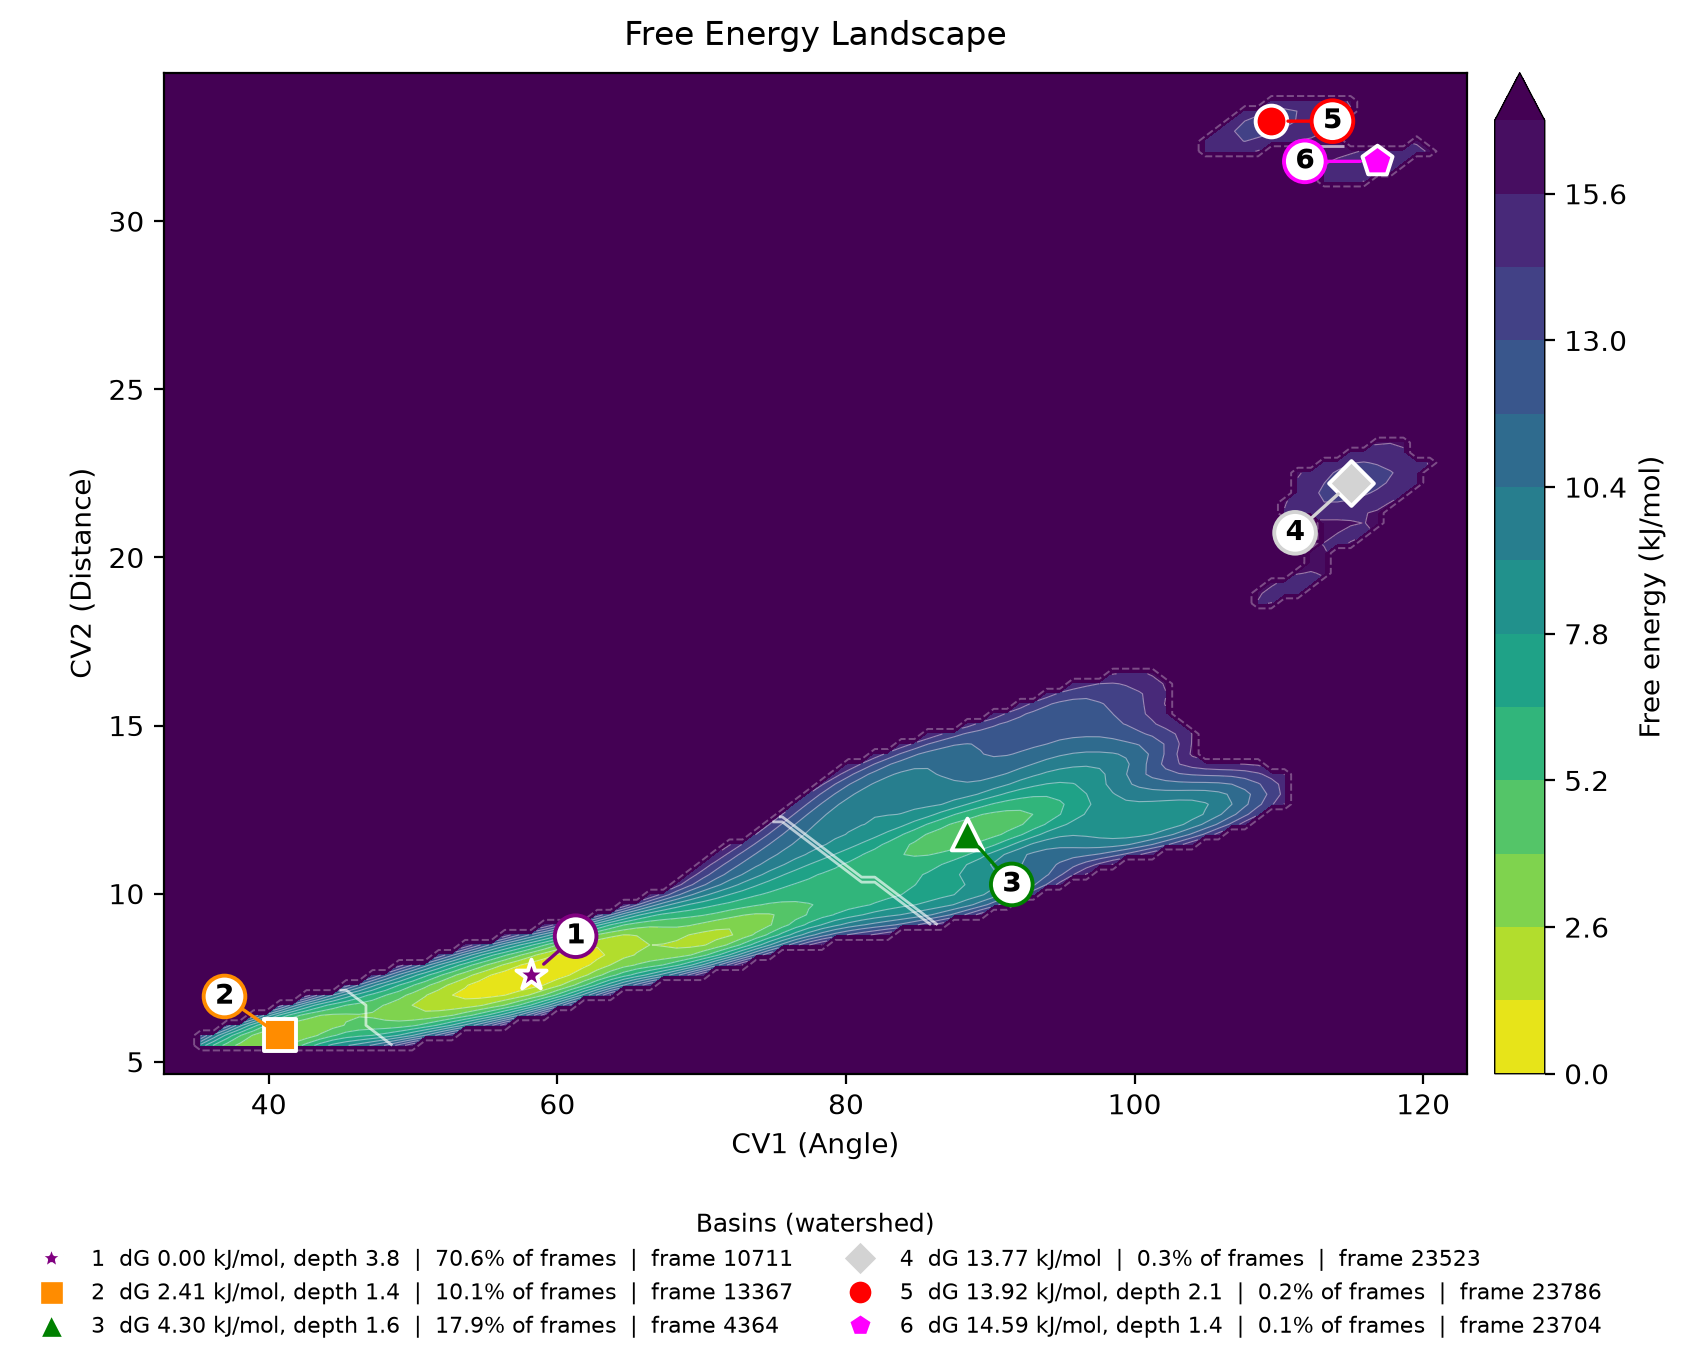
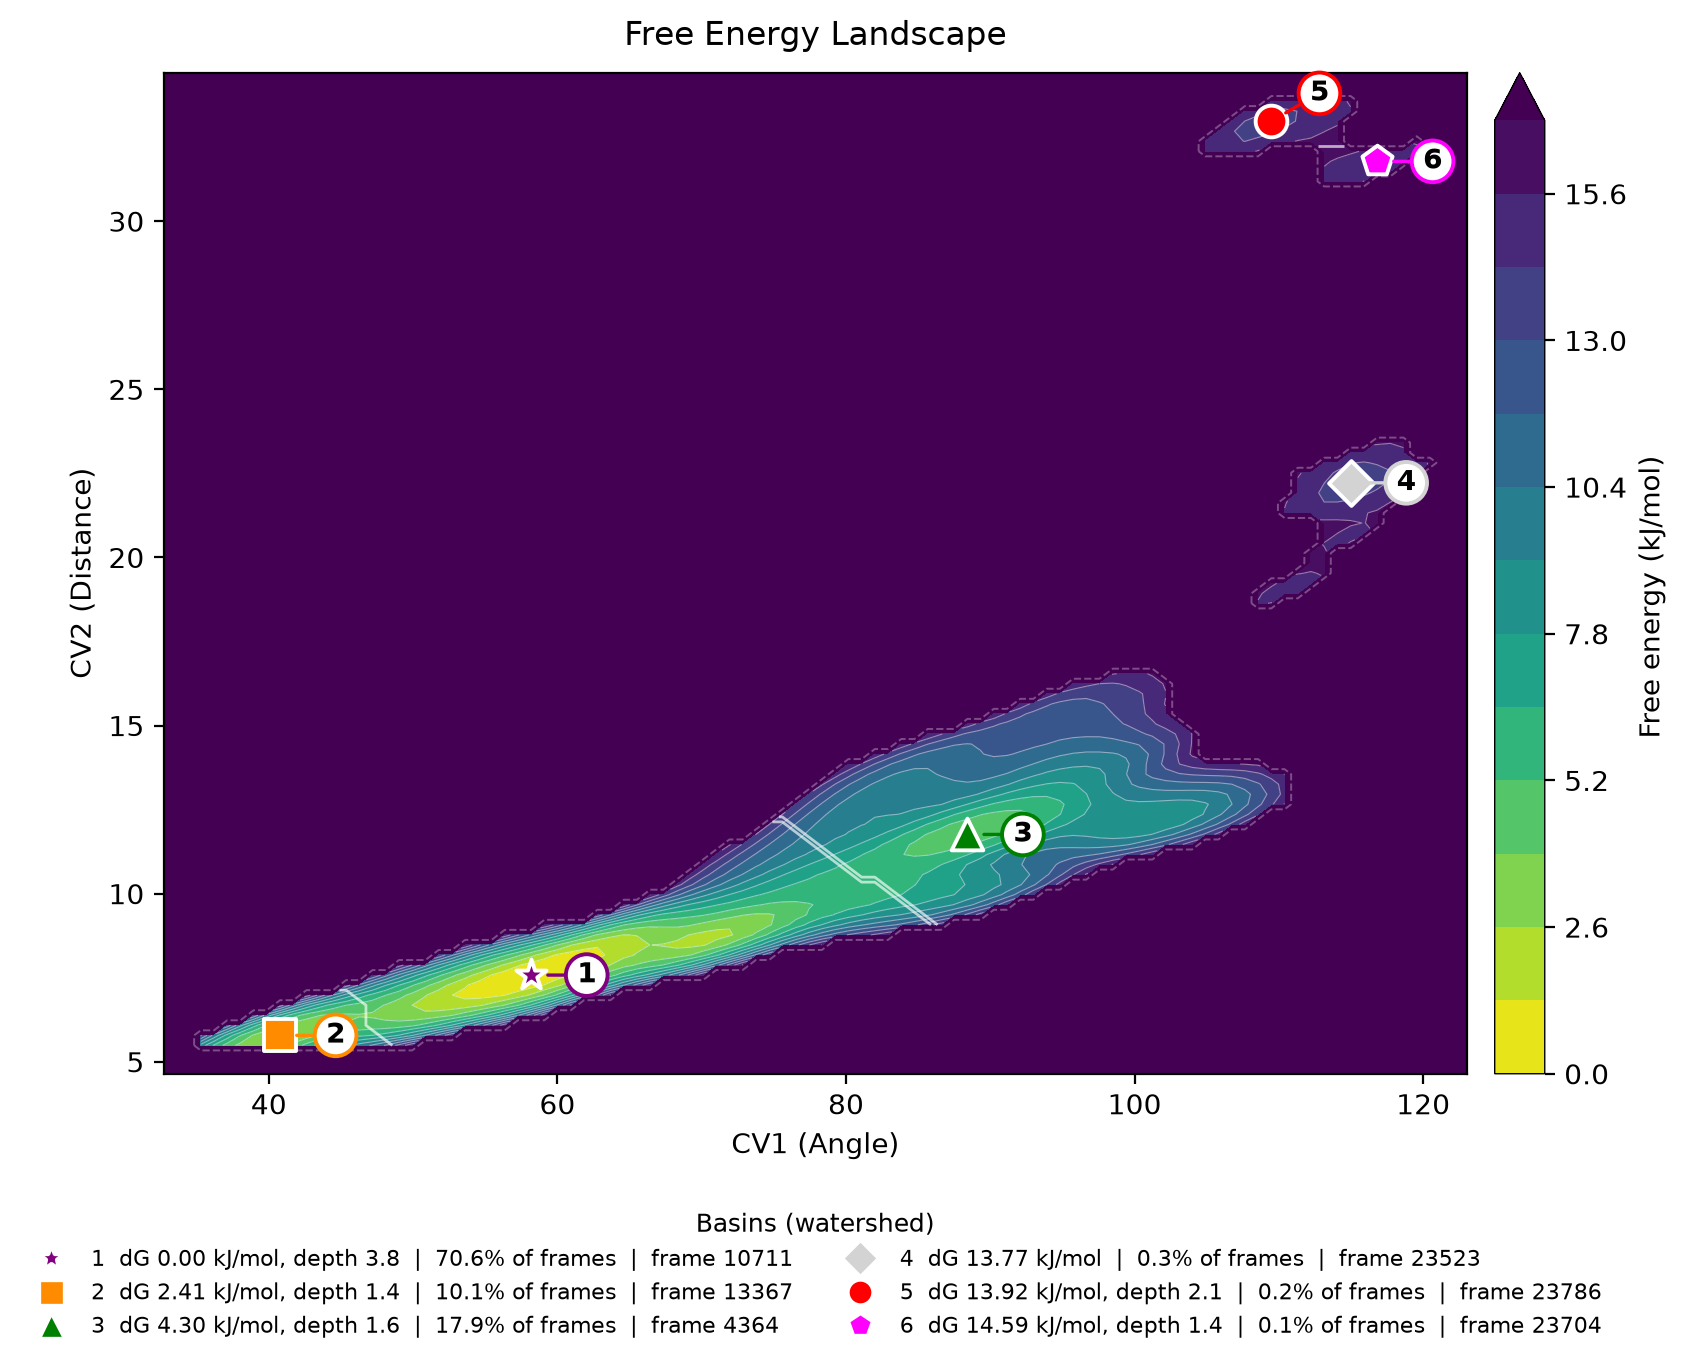
fix: solve basin label placement instead of cycling fixed offsets
Labels were offset from their marker by a position picked from a six-entry
list indexed by basin number. Two basins landing near each other on screen
therefore got two nearby labels, and on the bundled trajectory basins 5 and 6
overlapped.

Each label is now tried in twelve directions at four distances from its
marker, and keeps the first position that clears every label already placed
and every other marker by a set margin; if none does, it takes the position
that maximises the smallest gap. The search runs in screen pixels rather than
data units, because two basins can be far apart in CV space and touching in
the figure.

Four tests cover it, including six minima placed almost on top of each other.

diff --git a/free_energy_landscape/freeEnergyLandscape.py b/free_energy_landscape/freeEnergyLandscape.py
@@ -752,20 +752,63 @@ class FreeEnergyLandscape:
         mappable.set_array([])
         return surf, mappable, ceiling
 
-    def _annotate_basins(self, ax, basins, three_d=False):
-        """Marca o minimo de cada bacia com o seu numero e devolve os itens da legenda.
+    @staticmethod
+    def _label_offsets(ax, anchors, radii=(20, 32, 46, 62), n_dirs=12, min_sep=26):
+        """Escolhe onde por cada rotulo sem que dois se sobreponham.
 
-        O rotulo sai deslocado do marcador, com linha de chamada, para que bacias vizinhas
-        nao sobreponham os numeros.
+        Deslocamentos fixos por indice falham assim que duas bacias caem perto uma da
+        outra: os rotulos se empilham. Aqui cada rotulo e testado em varias direcoes e
+        distancias do seu marcador, e fica na primeira posicao que respeita `min_sep`
+        pontos de folga em relacao aos rotulos ja colocados e a todos os marcadores. Se
+        nenhuma respeitar, fica na que maximiza a menor distancia.
+
+        As contas sao em pixels de tela, porque proximidade visual e o que importa: duas
+        bacias podem estar longe em unidades de CV e coladas na figura.
+        """
+        scale = ax.figure.dpi / 72.0            # pontos -> pixels
+        anchors_px = np.array([ax.transData.transform(a) for a in anchors], dtype=float)
+
+        placed_px = []
+        offsets = []
+        for i, anchor_px in enumerate(anchors_px):
+            others = np.delete(anchors_px, i, axis=0)
+            best_off, best_score = np.array([radii[0], radii[0]]), -np.inf
+
+            for radius in radii:
+                for k in range(n_dirs):
+                    angle = 2 * np.pi * k / n_dirs
+                    off = np.array([np.cos(angle), np.sin(angle)]) * radius
+                    pos = anchor_px + off * scale
+
+                    gaps = []
+                    if placed_px:
+                        gaps.append(np.hypot(*(np.array(placed_px) - pos).T).min())
+                    if len(others):
+                        gaps.append(np.hypot(*(others - pos).T).min())
+                    score = min(gaps) if gaps else np.inf
+
+                    if score > best_score:
+                        best_off, best_score = off, score
+                    if score >= min_sep * scale:
+                        break
+                if best_score >= min_sep * scale:
+                    break
+
+            offsets.append(tuple(best_off))
+            placed_px.append(anchor_px + best_off * scale)
+
+        return offsets
+
+    def _annotate_basins(self, ax, basins, three_d=False):
+        """Marca o minimo de cada bacia com a sua forma e o seu numero.
+
+        Devolve os itens da legenda.
         """
         handles = []
-        # Deslocamentos alternados evitam colisao entre rotulos de bacias proximas
-        offsets = [(16, 14), (-20, 14), (16, -18), (-20, -18), (22, 0), (-26, 0)]
 
+        # Ancoras primeiro: o posicionamento dos rotulos precisa conhecer todas elas
+        anchors = []
         for b in basins:
-            color = self.discreet_colors[(b['id'] - 1) % len(self.discreet_colors)]
-            marker = self.discreet_markers[(b['id'] - 1) % len(self.discreet_markers)]
-
             if three_d:
                 # Um marcador desenhado em 3D some atras da propria superficie quando a
                 # bacia fica do lado oposto ao da camera, e zorder nao ajuda porque o
@@ -774,20 +817,29 @@ class FreeEnergyLandscape:
                 # por cima, com uma linha de chamada apontando o ponto — igual ao 2D.
                 x2, y2, _ = proj3d.proj_transform(b['cv1_min'], b['cv2_min'],
                                                   b['G_min'], ax.get_proj())
-                anchor = (x2, y2)
-                ax.add_artist(Line2D([x2], [y2], marker=marker, color=color,
+                anchors.append((x2, y2))
+            else:
+                anchors.append((b['cv1_min'], b['cv2_min']))
+
+        offsets = self._label_offsets(ax, anchors)
+
+        for b, anchor, offset in zip(basins, anchors, offsets):
+            color = self.discreet_colors[(b['id'] - 1) % len(self.discreet_colors)]
+            marker = self.discreet_markers[(b['id'] - 1) % len(self.discreet_markers)]
+
+            if three_d:
+                ax.add_artist(Line2D([anchor[0]], [anchor[1]], marker=marker, color=color,
                                      markersize=11, markeredgecolor='white',
                                      markeredgewidth=1.4, linestyle='none',
                                      transform=ax.transData, zorder=9))
             else:
-                ax.scatter([b['cv1_min']], [b['cv2_min']], color=color, marker=marker,
+                ax.scatter([anchor[0]], [anchor[1]], color=color, marker=marker,
                            s=130, edgecolors='white', linewidths=1.4, zorder=6)
-                anchor = (b['cv1_min'], b['cv2_min'])
 
             ax.annotate(
                 str(b['id']),
                 xy=anchor,
-                xytext=offsets[(b['id'] - 1) % len(offsets)],
+                xytext=offset,
                 textcoords='offset points',
                 fontsize=10, fontweight='bold', color='black',
                 ha='center', va='center', zorder=10,

diff --git a/tests/test_free_energy.py b/tests/test_free_energy.py
@@ -607,6 +607,92 @@ def test_basins_are_independent_of_n_jobs(tmp_path):
 
 
 # --------------------------------------------------------------------------
+# Posicionamento dos rotulos
+# --------------------------------------------------------------------------
+
+def label_positions(ax, anchors, offsets):
+    """Posicao final de cada rotulo, em pixels de tela."""
+    scale = ax.figure.dpi / 72.0
+    return np.array([np.array(ax.transData.transform(a)) + np.array(o) * scale
+                     for a, o in zip(anchors, offsets)])
+
+
+def test_labels_do_not_overlap_when_basins_are_adjacent(tmp_path):
+    """Ancoras coladas nao podem gerar rotulos empilhados."""
+    import matplotlib
+    matplotlib.use('Agg')
+    import matplotlib.pyplot as plt
+
+    fig, ax = plt.subplots(figsize=(8, 6))
+    ax.set_xlim(0, 10)
+    ax.set_ylim(0, 10)
+
+    # Seis minimos praticamente no mesmo ponto: o pior caso
+    anchors = [(5.0 + 0.03 * i, 5.0 + 0.02 * i) for i in range(6)]
+    offsets = FreeEnergyLandscape._label_offsets(ax, anchors)
+    positions = label_positions(ax, anchors, offsets)
+
+    gaps = [np.hypot(*(positions[i] - positions[j]))
+            for i in range(len(positions)) for j in range(i + 1, len(positions))]
+    plt.close(fig)
+
+    assert min(gaps) > 18.0, f"rotulos a {min(gaps):.1f} px um do outro"
+
+
+def test_labels_keep_clear_of_every_marker(tmp_path):
+    """Um rotulo tambem nao pode cair em cima do marcador de outra bacia."""
+    import matplotlib
+    matplotlib.use('Agg')
+    import matplotlib.pyplot as plt
+
+    fig, ax = plt.subplots(figsize=(8, 6))
+    ax.set_xlim(0, 10)
+    ax.set_ylim(0, 10)
+
+    anchors = [(4.8, 5.0), (5.2, 5.0), (5.0, 5.3)]
+    offsets = FreeEnergyLandscape._label_offsets(ax, anchors)
+    positions = label_positions(ax, anchors, offsets)
+    anchors_px = np.array([ax.transData.transform(a) for a in anchors])
+    plt.close(fig)
+
+    for i, pos in enumerate(positions):
+        for j, anchor in enumerate(anchors_px):
+            if i == j:
+                continue
+            assert np.hypot(*(pos - anchor)) > 18.0
+
+
+def test_label_offsets_are_deterministic(tmp_path):
+    import matplotlib
+    matplotlib.use('Agg')
+    import matplotlib.pyplot as plt
+
+    fig, ax = plt.subplots(figsize=(8, 6))
+    ax.set_xlim(0, 10)
+    ax.set_ylim(0, 10)
+    anchors = [(2.0, 3.0), (2.1, 3.1), (7.0, 8.0)]
+    first = FreeEnergyLandscape._label_offsets(ax, anchors)
+    second = FreeEnergyLandscape._label_offsets(ax, anchors)
+    plt.close(fig)
+    assert first == second
+
+
+def test_every_basin_gets_a_label_offset(tmp_path):
+    import matplotlib
+    matplotlib.use('Agg')
+    import matplotlib.pyplot as plt
+
+    fig, ax = plt.subplots(figsize=(8, 6))
+    ax.set_xlim(0, 10)
+    ax.set_ylim(0, 10)
+    anchors = [(1.0 * i, 1.0 * i) for i in range(10)]
+    offsets = FreeEnergyLandscape._label_offsets(ax, anchors)
+    plt.close(fig)
+    assert len(offsets) == len(anchors)
+    assert all(np.isfinite(o).all() for o in offsets)
+
+
+# --------------------------------------------------------------------------
 # Grade
 # --------------------------------------------------------------------------
 

diff --git a/CHANGELOG.md b/CHANGELOG.md
@@ -80,8 +80,7 @@ Densities are clipped to the smallest positive float before the logarithm, remov
 - `-h` / `--help` works as the first argument.
 - Options given without their value now report a clear error instead of raising `IndexError`.
 - `requirements.txt` uses lower bounds and matches `pyproject.toml` (it previously pinned exact
-  old versions that contradicted the package metadata). Tested against numpy 2.x.
-- Minimum Python raised to 3.9.
+  old versions that contradicted the package metadata). See "Supported Python" below.
 
 ### Added
 
@@ -161,8 +160,12 @@ inside it (default 1). The rest is left blank. With that, the ceiling is no long
 - Contour levels span only the useful range, in round steps, with thin light lines instead of a
   black hairline mesh.
 - Colorbar sits against the axes and the legend moves below the plot; neither steals plot area.
-- Basin labels are drawn as offset callouts with leader lines, so neighbouring labels stop
-  overlapping.
+- Basin labels are drawn as callouts with leader lines, and their placement is solved rather than
+  fixed: each label is tried in several directions and distances from its marker and keeps the
+  first position clear of every label already placed and of every other marker. Fixed offsets
+  cycled by index collided as soon as two basins landed near each other on screen. The search
+  works in screen pixels, since two basins can be far apart in CV units and touching in the
+  figure.
 - Figures are saved at 200 dpi (`--dpi`).
 - The 3D surface is cut a few cells beyond the sampled region rather than exactly at its edge.
   Cutting at the edge sliced the walls mid-rise: the sampled region is a diagonal ribbon and the
@@ -216,7 +219,7 @@ installs a built wheel on 3.14 and reproduces the bundled example end to end.
 
 - `free_energy_landscape/__init__.py`, so `from free_energy_landscape import FreeEnergyLandscape`
   works and the package is no longer an implicit namespace package.
-- `tests/` — 52 pytest tests, including an analytical anchor: a two-Gaussian mixture with known
+- `tests/` — 59 pytest tests, including an analytical anchor: a two-Gaussian mixture with known
   weights must reproduce ΔG = −k_B·T·ln(w₁/w₂), both on the grid and between basin minima.
 - `.gitignore` (covers `__pycache__/`, build artefacts, and `.pypirc`/`*.token`).
 - The 3D landscape is now saved to `3D_landscape.png`. Previously it was only shown on screen,
